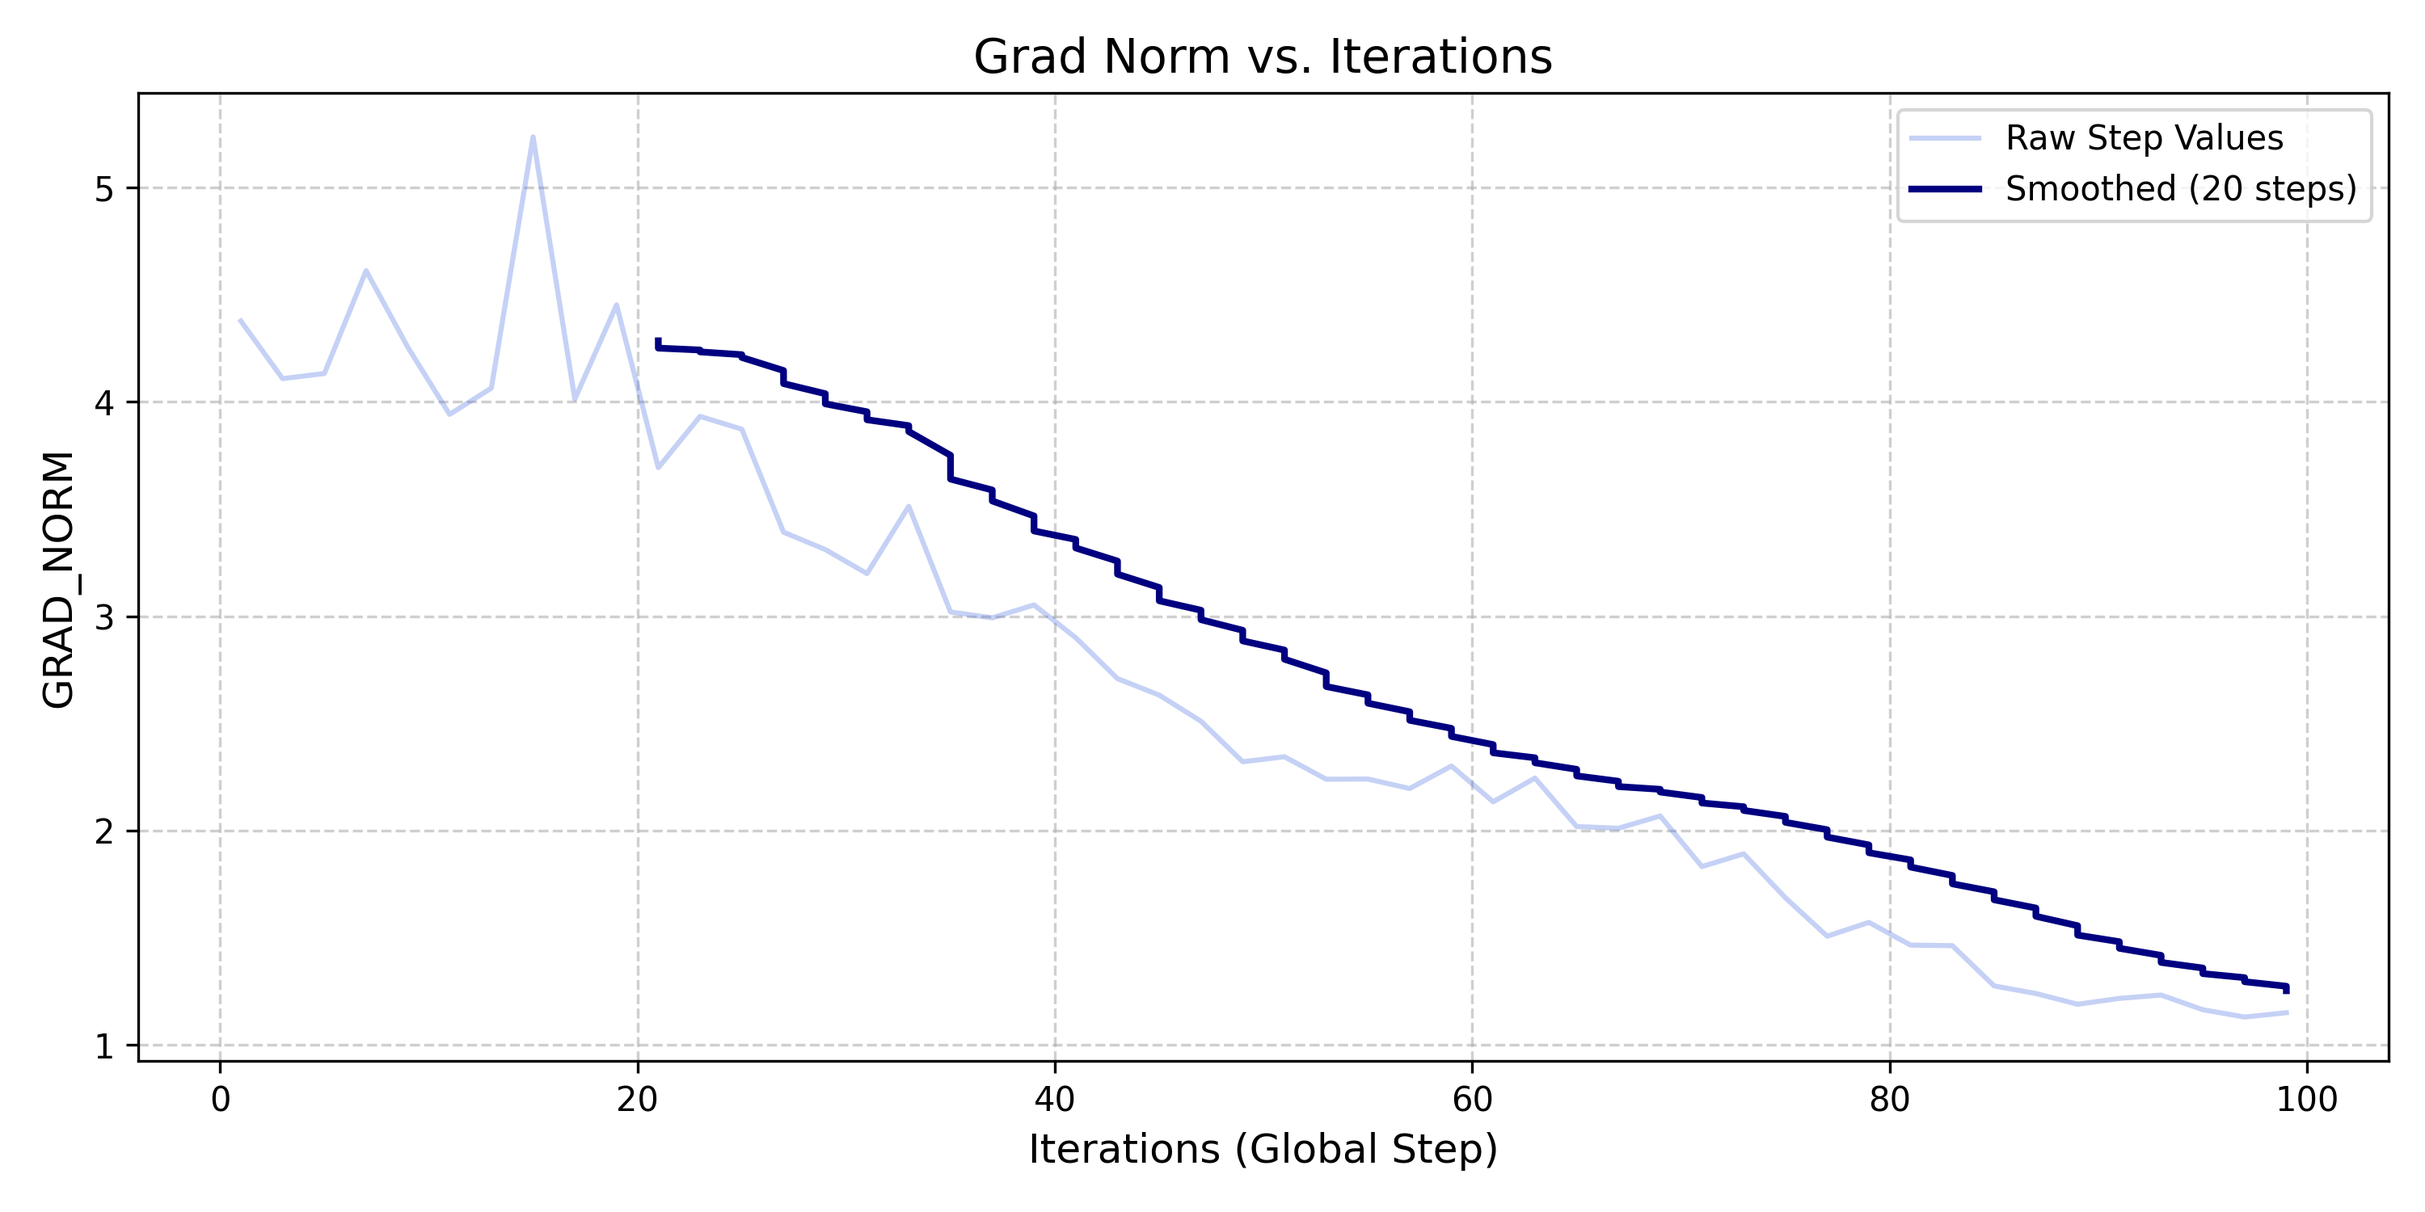
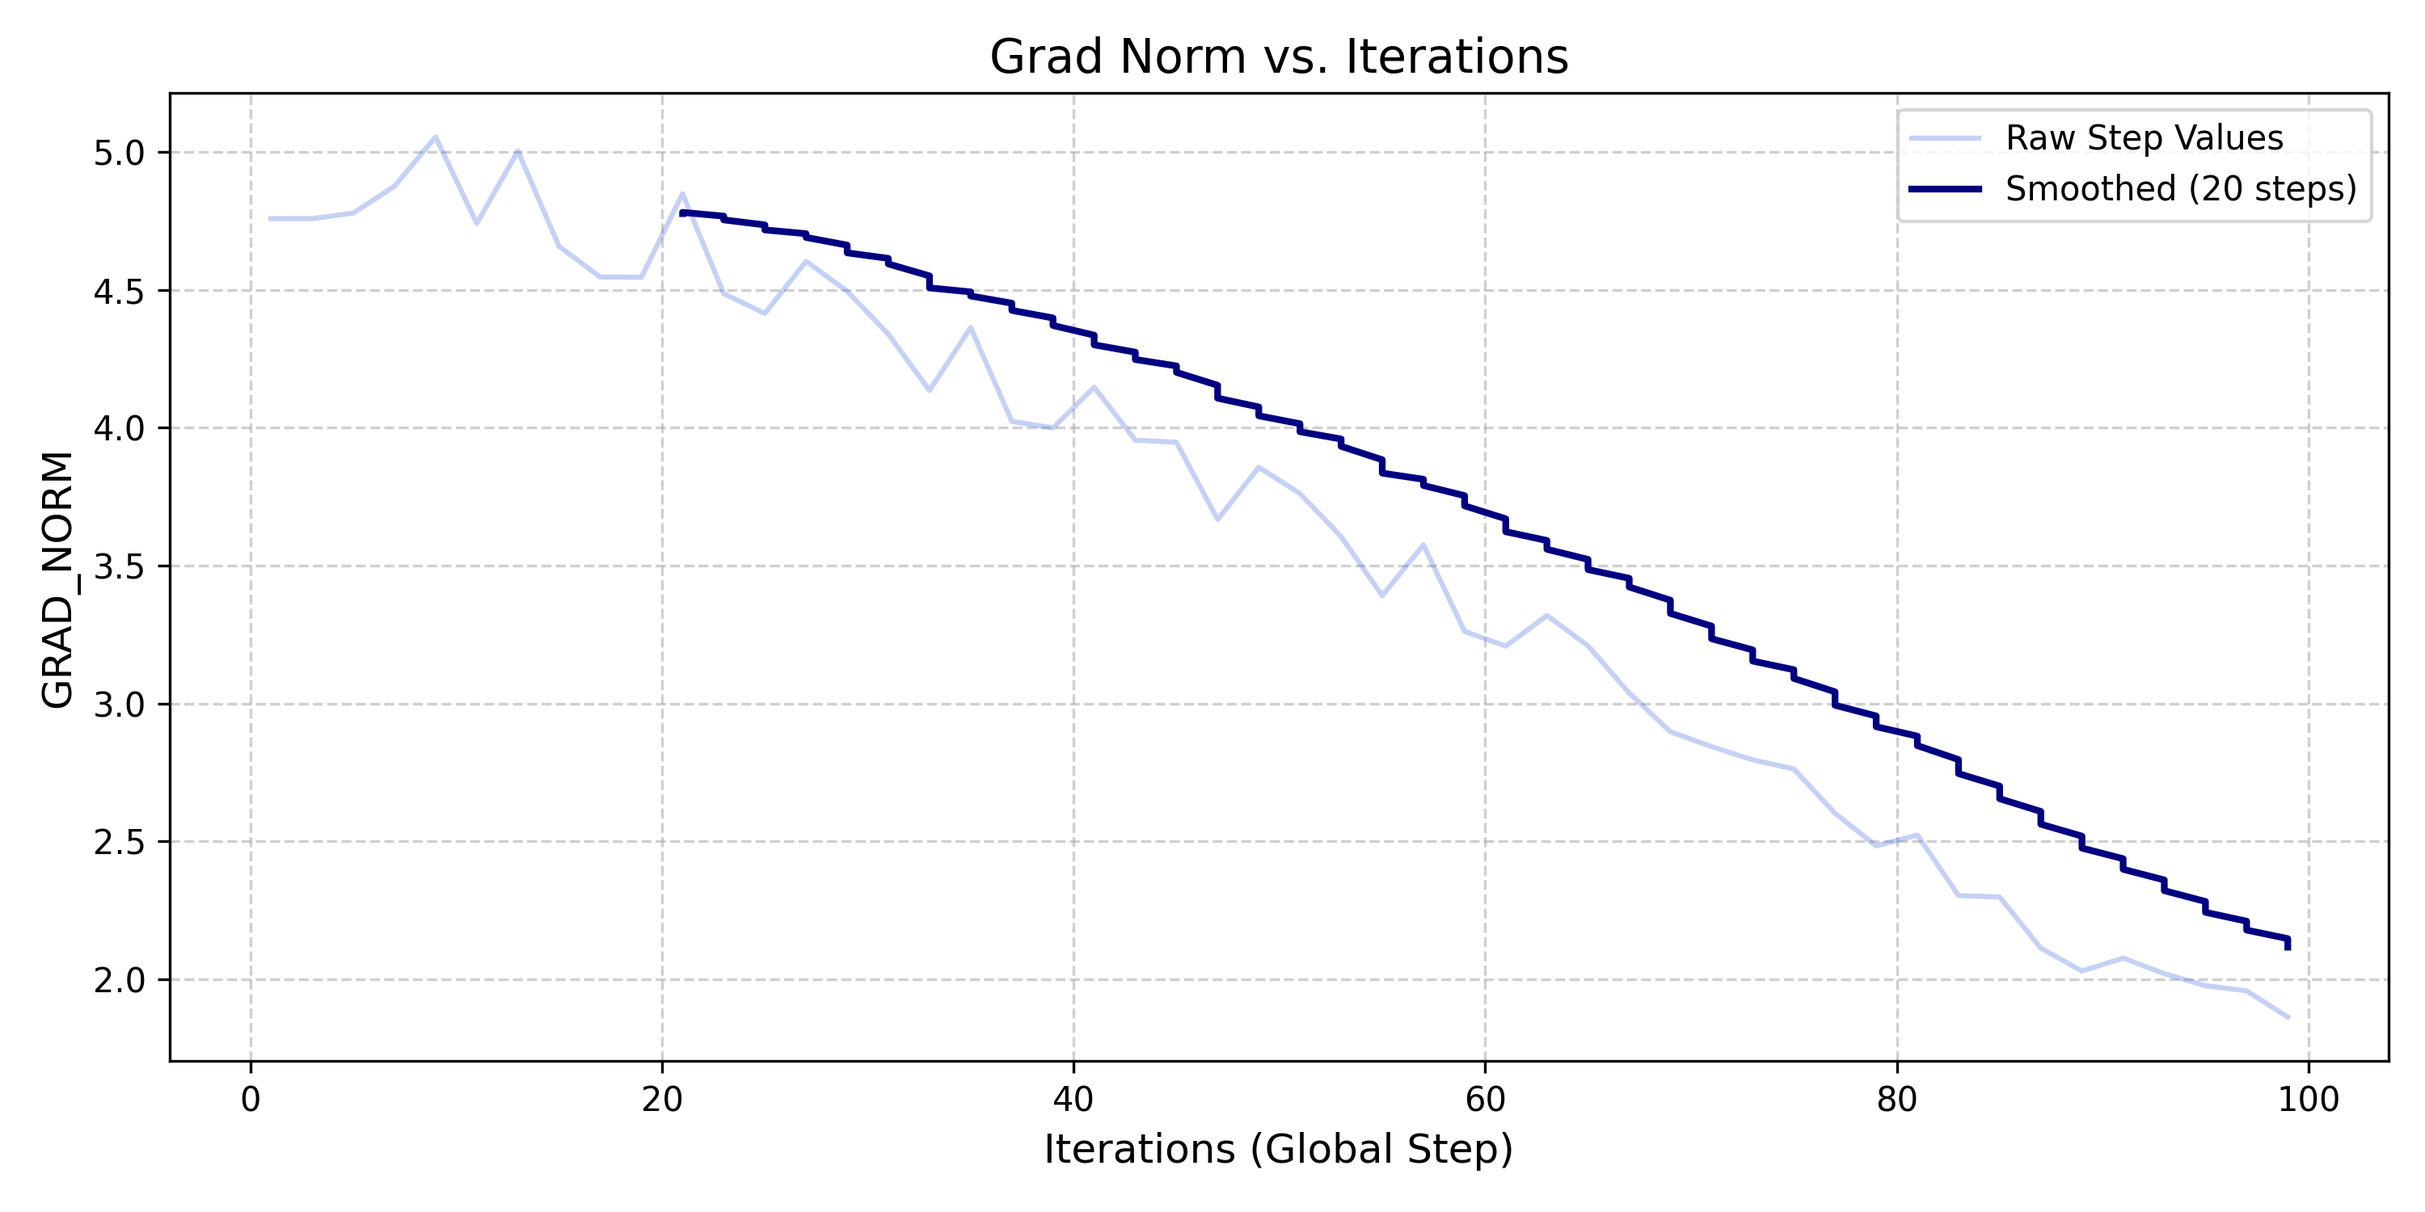
adding new code for jean

diff --git a/training/train_agent_sft.py b/training/train_agent_sft.py
@@ -1,8 +1,10 @@
 import torch
 import torch.nn as nn
 import torch.nn.functional as F
+import torch.distributed as dist
+import torch.distributed.nn.functional as dist_nn
 from torch.utils.data import Dataset, DataLoader, ConcatDataset
-from accelerate import Accelerator
+from accelerate import Accelerator, DataLoaderConfiguration
 from accelerate.logging import get_logger
 from accelerate.utils import DistributedDataParallelKwargs
 
@@ -81,8 +83,14 @@ class JointEmbeddingAlignmentNetwork(nn.Module):
         )
         self.transformer_encoder = nn.TransformerEncoder(encoder_layer, num_layers=num_layers)
         
-        # Learnable temperature for standard InfoNCE scaling
-        self.temperature = nn.Parameter(torch.ones([]) * 0.07)
+        # Initialize projections safely
+        self.apply(self._init_weights)
+
+    def _init_weights(self, module):
+        if isinstance(module, nn.Linear):
+            nn.init.trunc_normal_(module.weight, std=0.02)
+            if module.bias is not None:
+                nn.init.constant_(module.bias, 0)
 
     def forward(self, vjepa_inputs, llava_inputs):
         with torch.no_grad():
@@ -93,52 +101,76 @@ class JointEmbeddingAlignmentNetwork(nn.Module):
                     output_hidden_states=True,
                     return_dict=True
                 )
-            llava_feats = llava_outputs.hidden_states[-1].float()
+            llava_feats = llava_outputs.hidden_states[-1]
 
             # jepa outputs
-            v_jepa_feats = self.vjepa_model(**vjepa_inputs).last_hidden_state
+            if vjepa_inputs is not None:
+                v_jepa_feats = self.vjepa_model(**vjepa_inputs).last_hidden_state
+            else:
+                v_jepa_feats = None
 
         projected_llava = self.llava_projector(llava_feats)
         
-        # Concatenate tokens sequence-wise: [CLS] + Video + Language
-        combined_tokens = torch.cat([v_jepa_feats, projected_llava], dim=1)
+        # Concatenate tokens sequence-wise
+        combined_tokens = torch.cat([v_jepa_feats, projected_llava], dim=1) if v_jepa_feats is not None else projected_llava
         
         # Pass through attention layers
         transformed_tokens = self.transformer_encoder(combined_tokens)
 
-        fused_representations = self.embedding_projection(transformed_tokens[:, -1, :])
+        # STABILITY FIX: Use index 0 (or mean pooling) rather than -1 to avoid padding artifacts
+        fused_representations = self.embedding_projection(transformed_tokens[:, 0, :])
         
-        # Extract the processed CLS representation [B, 1024]
         return fused_representations
 
-    def compute_infonce_loss(self, cls_representations, temp=0.07):
-        # cls_representations shape: [2*B, D]
-        total_samples = cls_representations.size(0)
-        batch_size = total_samples // 2
+    @staticmethod
+    def gather_embeddings_with_grad(tensor: torch.Tensor) -> torch.Tensor:
+        if not dist.is_available() or not dist.is_initialized() or dist.get_world_size() == 1:
+            return tensor
 
-        # Split into View 1 (positives) and View 2 (negatives/augmented views)
-        z1 = cls_representations[:batch_size]  # [B, D]
-        z2 = cls_representations[batch_size:]  # [B, D]
+        gathered_tensors = dist_nn.all_gather(tensor)
+        return torch.cat(gathered_tensors, dim=0)
 
-        # Normalize embeddings along feature dimension
-        z1_norm = F.normalize(z1, p=2, dim=-1)
-        z2_norm = F.normalize(z2, p=2, dim=-1)
+    def compute_infonce_loss(self, query_embeds, target_embeds, temp=0.07, max_logit=50.0):
+        # 1. Cast to FP32 immediately for numerical stability
+        query_32 = query_embeds.float()
+        target_32 = target_embeds.float()
 
-        # Cross-similarity matrix: [B, B]
-        # Entry (i, j) is the similarity between z1[i] and z2[j]
-        similarity_matrix = torch.matmul(z1_norm, z2_norm.T) / temp
+        # 2. L2 Normalization in local rank
+        q_norm_local = F.normalize(query_32, p=2, dim=-1)
+        t_norm_local = F.normalize(target_32, p=2, dim=-1)
 
-        device = cls_representations.device
-        labels = torch.arange(batch_size, device=device)
+        # 3. Gather across distributed GPUs
+        q_norm = self.gather_embeddings_with_grad(q_norm_local)
+        t_norm = self.gather_embeddings_with_grad(t_norm_local)
 
-        # Symmetric InfoNCE Loss (CLIP-style)
-        # loss_z1_to_z2: Predict z2[i] given z1[i] across all z2 in batch
-        loss_z1_to_z2 = F.cross_entropy(similarity_matrix, labels)
+        # 4. Compute scaled similarity matrix
+        similarity_matrix = torch.matmul(q_norm, t_norm.T) / temp
+
+        # 5. Logit clamping to prevent exponential explosion in Softmax
+        similarity_matrix = torch.clamp(similarity_matrix, min=-max_logit, max=max_logit)
+
+        device = query_embeds.device
         
-        # loss_z2_to_z1: Predict z1[i] given z2[i] across all z1 in batch
-        loss_z2_to_z1 = F.cross_entropy(similarity_matrix.T, labels)
-        
-        total_loss = (loss_z1_to_z2 + loss_z2_to_z1) / 2.0
+        # STABILITY FIX: Correct label indexing across distributed ranks
+        if dist.is_available() and dist.is_initialized() and dist.get_world_size() > 1:
+            rank = dist.get_rank()
+            batch_size = query_embeds.size(0)
+            start_idx = rank * batch_size
+            end_idx = start_idx + batch_size
+            labels = torch.arange(start_idx, end_idx, device=device)
+            
+            # Extract local rows for cross-entropy to conserve memory & keep loss localized
+            local_sim_matrix = similarity_matrix[start_idx:end_idx]
+            
+            loss_q2t = F.cross_entropy(local_sim_matrix, labels)
+            loss_t2q = F.cross_entropy(similarity_matrix.T[start_idx:end_idx], labels)
+        else:
+            batch_size = query_embeds.size(0)
+            labels = torch.arange(batch_size, device=device)
+            loss_q2t = F.cross_entropy(similarity_matrix, labels)
+            loss_t2q = F.cross_entropy(similarity_matrix.T, labels)
+
+        total_loss = (loss_q2t + loss_t2q) / 2.0
         return total_loss
 
 def plot_json_metric(json_path="training_logs.json", metric_name="loss", smooth_window=20):
@@ -236,11 +268,11 @@ def parse_args(input_args=None):
     return args
 
 def main(args):
-    ddp_kwargs = DistributedDataParallelKwargs(find_unused_parameters=True)
+    dataloader_config = DataLoaderConfiguration(even_batches=True)
     accelerator = Accelerator(
         gradient_accumulation_steps=args.gradient_accumulation_steps,
         mixed_precision=args.mixed_precision,
-        kwargs_handlers=[ddp_kwargs]
+        dataloader_config = dataloader_config
     )
     
     logging.basicConfig(
@@ -274,16 +306,14 @@ def main(args):
     # data_path = "/bucket/YamadaU/asarkar/CC3M/"
     # dataset = CC3MPatchHFDataset(data_path=data_path)
     root = "/nfshomes/asarkar6/trinity/small_video_dst/"
-    data_path = {
-        "root": root,
-        "video": os.path.join(root, "videos.txt"),
-        "captions": os.path.join(root, "captions.txt") 
-    }
+    data_path = {"root": root, "video": os.path.join(root, "videos.txt"), "captions": os.path.join(root, "captions.txt")}
     dataset = VideoCaptionDataset(data_path=data_path)
+
     collate_fn = dataset.collate_fn
+
     dataset = ConcatDataset([dataset] * int(10e7))
 
-    dataloader = DataLoader(dataset, batch_size=4, shuffle=True, collate_fn=collate_fn)
+    dataloader = DataLoader(dataset, batch_size=4, shuffle=True, collate_fn=collate_fn, drop_last=True)
     
     optimizer = torch.optim.AdamW(
         filter(lambda p: p.requires_grad, model.parameters()), 
@@ -314,6 +344,8 @@ def main(args):
         latest_dir = sorted(dirs, key=lambda x: int(str(x).split("-")[-1].split(".")[0]))[-1]
         return str(latest_dir)
 
+    initial_global_step = 0
+
     if args.resume_from_checkpoint:
         logger.info(f"Loading checkpoint from {args.resume_from_checkpoint}")
         latest_checkpoint = get_latest_checkpoint(args.resume_from_checkpoint)
@@ -329,6 +361,8 @@ def main(args):
                 state_dict = checkpoint
 
             missing_keys, unexpected_keys = model.load_state_dict(state_dict, strict=False)
+
+            initial_global_step = int(latest_checkpoint.split("-")[-1].split(".")[0])
         else:
             accelerator.print("No checkpoint found. Starting training from scratch.")
 
@@ -345,10 +379,8 @@ def main(args):
     logger.info(f"  Total train batch size (w. parallel, distributed & accumulation) = {total_batch_size}")
     logger.info(f"  Gradient Accumulation steps = {args.gradient_accumulation_steps}")
     logger.info(f"  Total optimization steps = {args.max_train_steps}")
-    global_step = 0
+    global_step = initial_global_step
     first_epoch = 0
-
-    initial_global_step = 0
 
     progress_bar = tqdm(
         range(0, args.max_train_steps),
@@ -361,26 +393,35 @@ def main(args):
     for epoch in range(first_epoch, args.num_train_epochs):
         for step, batch in enumerate(dataloader):
             with accelerator.accumulate(model):
-                optimizer.zero_grad()
-
                 # get the entities from batch
-                videos = batch["video_pos"] + batch["video_neg"]
-                prompts = batch["prompts"] + [""]*len(batch["video_neg"])
+                videos_query = batch["video_pos"] 
+                prompts_query = batch["prompts"]
+
+                prompts_target = batch["prompts_neg"]
 
                 # get inputs from v_jepa
-                vjepa_inputs = vjepa_processor(videos, return_tensors="pt").to(accelerator.device)
+                vjepa_inputs = vjepa_processor(videos_query, return_tensors="pt").to(accelerator.device)
 
-                # get inputs from llava-ov
+                # get inputs from llava-ov for query
                 formatted_prompts = []
-                for text_prompt in prompts:
+                for text_prompt in prompts_query:
+                    conversation = [{"role": "user", "content": [{"type": "text", "text": text_prompt}]}]
+                    prompt_formatted = llava_processor.apply_chat_template(conversation, add_generation_prompt=True)
+                    formatted_prompts.append(prompt_formatted)
+                llava_inputs = llava_processor(text=formatted_prompts, padding=True, return_tensors="pt").to(accelerator.device)
+
+                # get inputs from llava-ov for target
+                formatted_prompts = []
+                for text_prompt in prompts_target:
                     conversation = [{"role": "user", "content": [{"type": "text", "text": text_prompt}]}]
                     prompt_formatted = llava_processor.apply_chat_template(conversation, add_generation_prompt=True)
                     formatted_prompts.append(prompt_formatted)
                 llava_inputs = llava_processor(text=formatted_prompts, padding=True, return_tensors="pt").to(accelerator.device)
                 
+                query_embeds = model(vjepa_inputs, llava_inputs)
+                target_embeds = model(None, llava_inputs)
 
-                cls_representations = model(vjepa_inputs, llava_inputs)
-                loss = model.module.compute_infonce_loss(cls_representations)
+                loss = model.module.compute_infonce_loss(query_embeds, target_embeds)
 
                 accelerator.backward(loss)
                 if accelerator.sync_gradients:
@@ -390,8 +431,12 @@ def main(args):
                     grad_norm_tensor = accelerator.clip_grad_norm_(params_to_clip, args.max_grad_norm)
                     grad_norm = grad_norm_tensor.item() if grad_norm_tensor is not None else 0.0
 
+                    if grad_norm > 100:
+                        optimizer.zero_grad(set_to_none=True)
+
                 optimizer.step()
                 lr_scheduler.step()
+                optimizer.zero_grad(set_to_none=True)
 
             if accelerator.sync_gradients:
                 progress_bar.update(1)
@@ -418,10 +463,10 @@ def main(args):
                                 for removing_checkpoint in removing_checkpoints:
                                     removing_checkpoint = os.path.join(args.output_dir, removing_checkpoint)
                                     shutil.rmtree(removing_checkpoint)
-                        
-                        unwrapped_model = accelerator.unwrap_model(model)
-                        torch.save(unwrapped_model.state_dict(), os.path.join(args.output_dir, f"jean-checkpoint-{global_step}.pt"))
-                        logger.info("Training cycle complete. Core weights successfully serialized.")
+
+                            unwrapped_model = accelerator.unwrap_model(model)
+                            torch.save(unwrapped_model.state_dict(), os.path.join(args.output_dir, f"jean-checkpoint-{global_step}.pt"))
+                            logger.info("Training cycle complete. Core weights successfully serialized.")
 
             logs = {"loss": loss.detach().item(), "lr": lr_scheduler.get_last_lr()[0]}
             progress_bar.set_postfix(**logs)

diff --git a/dataloaders/base_dataloader.py b/dataloaders/base_dataloader.py
@@ -3,6 +3,7 @@ from torch.utils.data import Dataset, DataLoader
 import numpy as np
 from datasets import load_dataset
 from decord import VideoReader, cpu
+import random
 
 class VideoContrastiveDataset(Dataset):
     def __init__(self, data_path):
@@ -44,18 +45,30 @@ class VideoContrastiveDataset(Dataset):
         indices = np.linspace(start_idx, total_frames - 1 - offset, num_frames, dtype=int)
         return video_tensor[indices]
 
+    @staticmethod
+    def __choose_one(num):
+        caps_list = [
+            "Caption this image.",
+            "Provide a brief caption describing this video.",
+            "Write a clear, concise caption for the given video.",
+            "Give this video a suitable caption.",
+            "Summarize the visual content of this video in one sentence.",
+            "Generate a standard descriptive caption for this image."
+        ] 
+        return caps_list[num]
+
     def __getitem__(self, idx):
         item = self.data[idx]
 
-        caption = item["caption"]
+        caption = self.__choose_one(random.randint(0, 5))
+        neg_prompt = item["caption"]
         video_tensor = self.load_video(item["video"])
         
         video_view1 = self._sample_frames(video_tensor, num_frames=16, offset=0)
-        video_view2 = self._sample_frames(video_tensor, num_frames=16, offset=8)
         
         return {
             "video_pos": video_view1,  # Shape: [16, 3, 224, 224]
-            "video_neg": video_view2,  # Shape: [16, 3, 224, 224]
+            "prompts_neg": neg_prompt,  # Shape: [16, 3, 224, 224]
             "prompts": caption
         }
 
@@ -64,5 +77,5 @@ class VideoContrastiveDataset(Dataset):
         return {
             "video_pos": [x["video_pos"] for x in batch],
             "prompts": [x["prompts"] for x in batch],
-            "video_neg": [x["video_neg"] for x in batch]
+            "prompts_neg": [x["prompts_neg"] for x in batch]
         }

diff --git a/dataloaders/cc3m_video_dataloader.py b/dataloaders/cc3m_video_dataloader.py
@@ -98,22 +98,17 @@ class CC3MPatchHFDataset(VideoContrastiveDataset):
         # Build 10-frame patch video sequence: Shape [10, 224, 224, 3]
         video_pos = self.create_patch_sequence(target_image)
 
-        # Create video_neg by randomly shuffling frame order along temporal dim
-        perm = list(range(len(video_pos)))
-        random.shuffle(perm)
-        video_neg = video_pos[perm]
-
         return {
             "video_pos": video_pos,  # Shape: [10, 224, 224, 3]
-            "video_neg": video_neg,  # Shape: [10, 224, 224, 3] (shuffled sequence)
-            "prompts": caption
+            "prompts_neg": caption,  # Shape: [10, 224, 224, 3] (shuffled sequence)
+            "prompts": self.__choose_one(random.randint(0, 5))
         }
 
-if __name__ == "__main__":
-    DATA_DIR = ""
-    dataset = CC3MPatchHFDataset(data_path = os.path.join(DATA_DIR, ""))
-    dataloader = DataLoader(dataset, batch_size=4, shuffle=False, collate_fn=dataset.collate_fn, num_workers=4)
+# if __name__ == "__main__":
+#     DATA_DIR = ""
+#     dataset = CC3MPatchHFDataset(data_path = DATA_DIR)
+#     dataloader = DataLoader(dataset, batch_size=4, shuffle=False, collate_fn=dataset.collate_fn, num_workers=4)
     
-    for i, batch in enumerate(dataloader):
-        pdb.set_trace()
-        break
+#     for i, batch in enumerate(dataloader):
+#         pdb.set_trace()
+#         break
